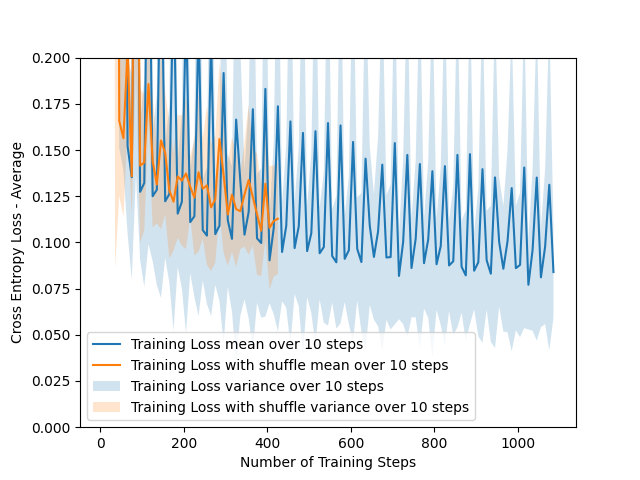
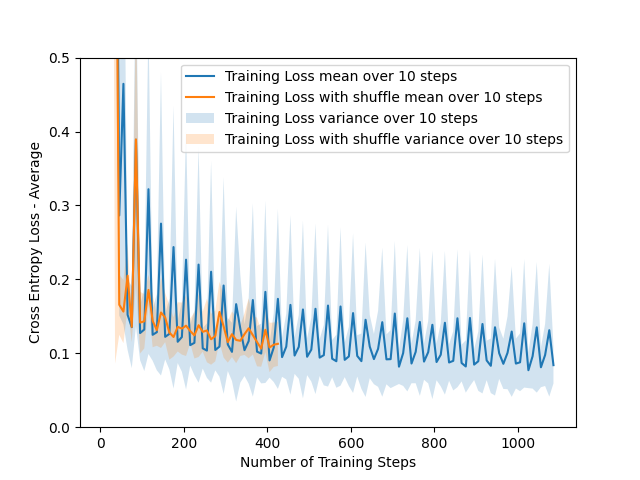
resten ish

diff --git a/assignment1/task3.py b/assignment1/task3.py
@@ -108,7 +108,7 @@ if __name__ == "__main__":
     print("Final Train accuracy:", calculate_accuracy(X_train, Y_train, model))
     print("Final Validation accuracy:", calculate_accuracy(X_val, Y_val, model))
 
-    plt.ylim([0.2, .6])
+    plt.ylim([0.25, .8])
     utils.plot_loss(train_history["loss"],
                     "Training Loss", npoints_to_average=10)
     utils.plot_loss(val_history["loss"], "Validation Loss")
@@ -116,21 +116,23 @@ if __name__ == "__main__":
     plt.xlabel("Number of Training Steps")
     plt.ylabel("Cross Entropy Loss - Average")
     plt.savefig("task3b_softmax_train_loss.png")
+    plt.grid()
     plt.show()
 
     # Plot accuracy
-    plt.ylim([0.89, .93])
+    plt.ylim([0.70, .95])
     utils.plot_loss(train_history["accuracy"], "Training Accuracy")
     utils.plot_loss(val_history["accuracy"], "Validation Accuracy")
     plt.xlabel("Number of Training Steps")
     plt.ylabel("Accuracy")
     plt.legend()
     plt.savefig("task3b_softmax_train_accuracy.png")
+    plt.grid()
     plt.show()
 
     # Train a model with L2 regularization (task 4b)
 
-    model1 = SoftmaxModel(l2_reg_lambda=2.0)
+    model1 = SoftmaxModel(l2_reg_lambda=0.0)
     trainer = SoftmaxTrainer(
         model1, learning_rate, batch_size, shuffle_dataset,
         X_train, Y_train, X_val, Y_val,
@@ -140,11 +142,67 @@ if __name__ == "__main__":
 
     # Plotting of softmax weights (Task 4b)
     #plt.imsave("task4b_softmax_weight.png", weight, cmap="gray")
+    
 
     # Plotting of accuracy for difference values of lambdas (task 4c)
     l2_lambdas = [2, .2, .02, .002]
     plt.savefig("task4c_l2_reg_accuracy.png")
 
     # Task 4d - Plotting of the l2 norm for each weight
+    w_norms = np.array([])
 
-    plt.savefig("task4d_l2_reg_norms.png")
+    for l2 in l2_lambdas:
+        model = SoftmaxModel(l2)
+        # Train model
+        trainer = SoftmaxTrainer(
+            model, learning_rate, batch_size, shuffle_dataset,
+            X_train, Y_train, X_val, Y_val,
+        )
+        train_history, val_history = trainer.train(num_epochs)
+
+        print("Final Train Cross Entropy Loss:",
+            cross_entropy_loss(Y_train, model.forward(X_train)))
+        print("Final Validation Cross Entropy Loss:",
+            cross_entropy_loss(Y_val, model.forward(X_val)))
+        print("Final Train accuracy:", calculate_accuracy(X_train, Y_train, model))
+        print("Final Validation accuracy:", calculate_accuracy(X_val, Y_val, model))
+
+        plt.ylim([0.25, .8])
+        utils.plot_loss(train_history["loss"],
+                        "Training Loss", npoints_to_average=10)
+        utils.plot_loss(val_history["loss"], "Validation Loss")
+        plt.legend()
+        plt.xlabel("Number of Training Steps")
+        plt.ylabel("Cross Entropy Loss - Average")
+        plt.savefig("task3b_softmax_train_loss.png")
+        plt.grid()
+        plt.show()
+
+        # Plot accuracy
+        plt.ylim([0.70, .95])
+        utils.plot_loss(train_history["accuracy"], "Training Accuracy")
+        utils.plot_loss(val_history["accuracy"], "Validation Accuracy")
+        plt.xlabel("Number of Training Steps")
+        plt.ylabel("Accuracy")
+        plt.legend()
+        plt.savefig("task3b_softmax_train_accuracy.png")
+        plt.grid()
+        plt.show()
+
+        # Plot w/lambda
+        # plt.ylim([0.0, 1.0])
+        # utils.plot_loss(train_history["accuracy"], "Training Accuracy")
+        # utils.plot_loss(val_history["accuracy"], "Validation Accuracy")
+
+        np.append(w_norms, np.linalg.norm(model.w)**2)
+            
+
+        plt.savefig("task4d_l2_reg_norms.png")
+        
+    plt.plot(w_norms, l2_lambdas)
+    plt.xlabel("lambda")
+    plt.ylabel("||w||^2")
+    plt.legend()
+    # plt.savefig("task3b_softmax_train_accuracy.png")
+    plt.grid()
+    plt.show()

diff --git a/assignment1/task2.py b/assignment1/task2.py
@@ -76,7 +76,7 @@ class LogisticTrainer(BaseTrainer):
 
 if __name__ == "__main__":
     # hyperparameters DO NOT CHANGE IF NOT SPECIFIED IN ASSIGNMENT TEXT
-    num_epochs = 50
+    num_epochs = 500
     learning_rate = 0.05
     batch_size = 128
     shuffle_dataset = False
@@ -110,24 +110,25 @@ if __name__ == "__main__":
     print("Validation accuracy:", calculate_accuracy(X_val, Y_val, model))
 
     # Plot loss for first model (task 2b)
-    plt.ylim([0., .2])
-    utils.plot_loss(train_history["loss"],
-                    "Training Loss", npoints_to_average=10)
+    plt.ylim([0., .5])
+    utils.plot_loss(train_history["loss"], "Training Loss", npoints_to_average=10)
     utils.plot_loss(val_history["loss"], "Validation Loss")
     plt.legend()
     plt.xlabel("Number of Training Steps")
     plt.ylabel("Cross Entropy Loss - Average")
     plt.savefig("task2b_binary_train_loss.png")
+    plt.grid()
     plt.show()
 
     # Plot accuracy
-    plt.ylim([0.93, .99])
+    plt.ylim([0.85, .99])
     utils.plot_loss(train_history["accuracy"], "Training Accuracy")
     utils.plot_loss(val_history["accuracy"], "Validation Accuracy")
     plt.xlabel("Number of Training Steps")
     plt.ylabel("Accuracy")
     plt.legend()
     plt.savefig("task2b_binary_train_accuracy.png")
+    plt.grid()
     plt.show()
 
     # Task 2e - Create a comparison between training with and without shuffling
@@ -141,7 +142,7 @@ if __name__ == "__main__":
     )
     train_history_shuffle, val_history_shuffle = trainer.train(num_epochs)
 
-    plt.ylim([0., .2])
+    plt.ylim([0., .5])
     utils.plot_loss(train_history["loss"],
                     "Training Loss", npoints_to_average=10)
     utils.plot_loss(
@@ -150,6 +151,7 @@ if __name__ == "__main__":
     plt.xlabel("Number of Training Steps")
     plt.ylabel("Cross Entropy Loss - Average")
     plt.savefig("task2e_train_loss_with_shuffle.png")
+    plt.grid()
     plt.show()
 
     plt.ylim([0.93, .99])
@@ -160,4 +162,5 @@ if __name__ == "__main__":
     plt.ylabel("Accuracy")
     plt.legend()
     plt.savefig("task2e_train_accuracy_shuffle_difference.png")
+    plt.grid()
     plt.show()

diff --git a/assignment1/task3a.py b/assignment1/task3a.py
@@ -45,6 +45,7 @@ class SoftmaxModel:
         """
         # TODO implement this function (Task 3a)
 
+        
         y_hat = np.exp(X.dot(self.w)) / np.sum(np.exp(X.dot(self.w)), axis = 1)[:, None]
 
         return y_hat
@@ -59,19 +60,24 @@ class SoftmaxModel:
             outputs: outputs of model of shape: [batch size, num_outputs]
             targets: labels/targets of each image of shape: [batch size, num_classes]
         """
-        # TODO implement this function (Task 3a)
-
-        # self.grad = -X @ (outputs - targets) / X.shape[0]
-        self.grad = np.dot(X.T, -(targets - outputs)) / X.shape[0]
+        # TODO implement this function (Task 3a) 
 
         # To implement L2 regularization task (4b) you can get the lambda value in self.l2_reg_lambda 
-        # which is defined in the constructor.
+        # which is defined in the constructor.  
+
         assert targets.shape == outputs.shape,\
             f"Output shape: {outputs.shape}, targets: {targets.shape}"
         self.grad = np.zeros_like(self.w)
         assert self.grad.shape == self.w.shape,\
              f"Grad shape: {self.grad.shape}, w: {self.w.shape}"
         
+        # self.grad = np.dot(-X.T, (targets - outputs)) / X.shape[0] # Task 3a
+
+        self.grad = (np.dot(X.T, -(targets - outputs)) + self.l2_reg_lambda * self.w)/ X.shape[0] # Task 4
+
+        # grads = (np.dot(-X.T, (targets - outputs)) + 2*self.l2_reg_lambda*self.w) #this term is due to l2 reg
+                
+        # self.grad = grads/X.shape[0]   #Averaging all gradients
 
     def zero_grad(self) -> None:
         self.grad = None

diff --git a/assignment1/trainer.py b/assignment1/trainer.py
@@ -94,17 +94,17 @@ class BaseTrainer:
                     # TODO (Task 2d): Implement early stopping here.
                     # You can access the validation loss in val_history["loss"]
                     
-                    if val_loss <= best_val_loss:
+                    if val_loss < best_val_loss:
                         best_val_loss = val_loss
                         iterator = 0
                     else:
                         iterator += 1
                     
-                    if iterator == 10:
+                    if iterator >= 10:
+                        print("number of epochs: ", epoch)
                         return train_history, val_history
-
                     
-                    # if np.min(val_history['loss'].value) not in val_history['loss'][-10:]:
+                    # if val_loss > np.min(val_history['loss'][-10:]):
                     #    return train_history, val_history
 
                 global_step += 1
